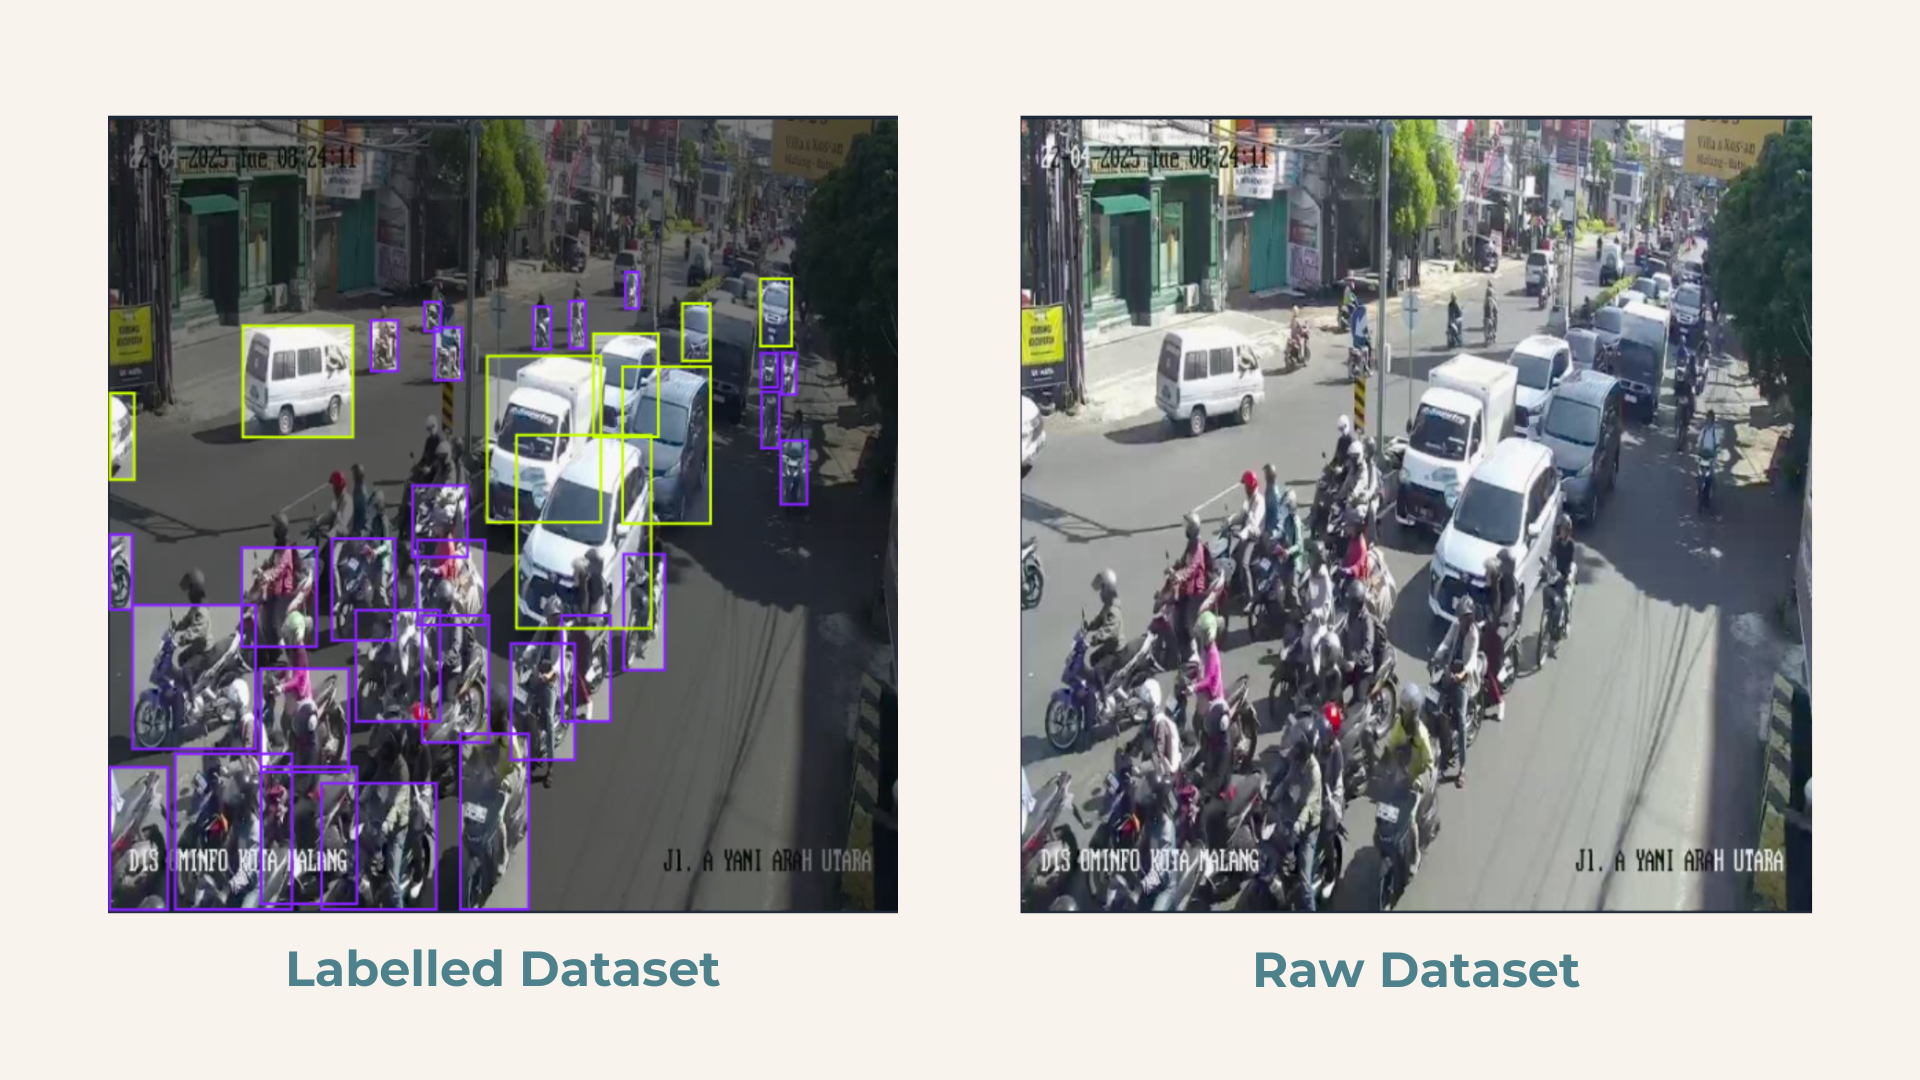
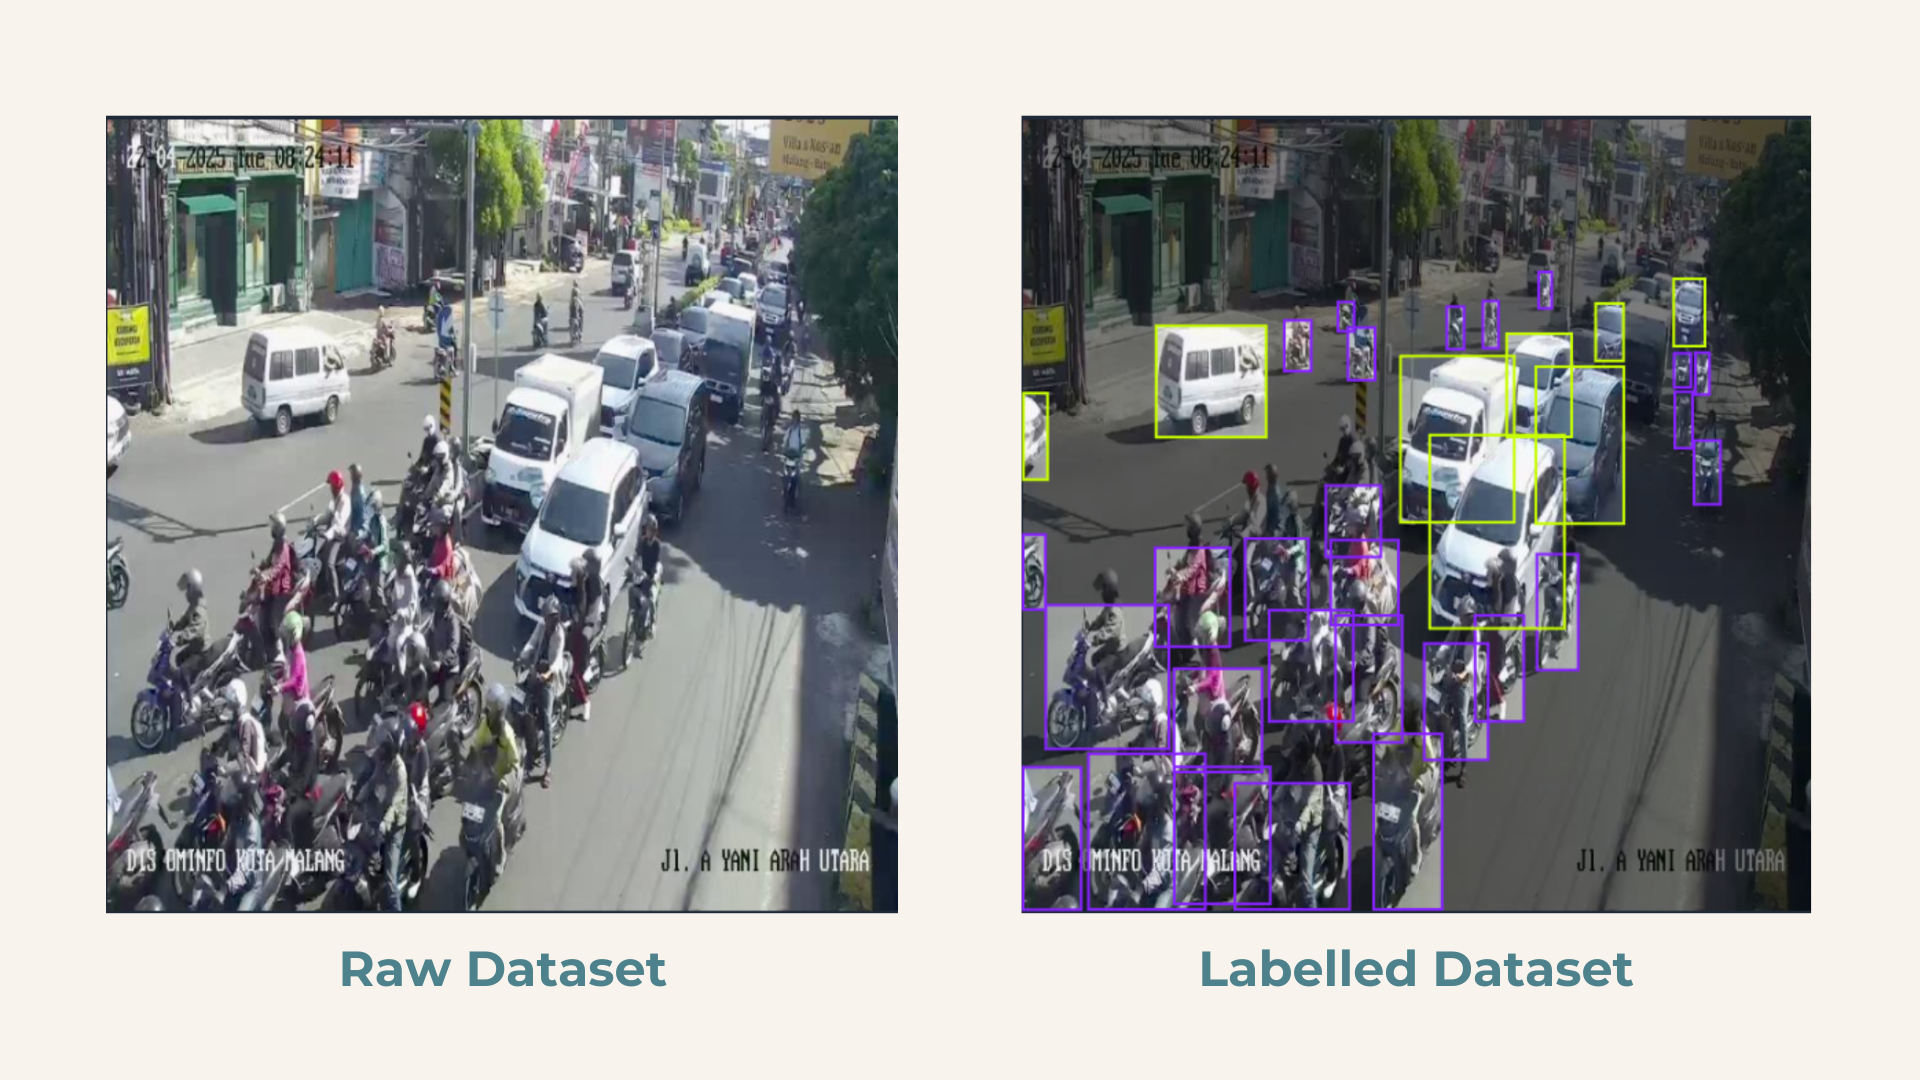
ux: match every page to the case-study column, fold the chat to a spine
Width — the previous attempt pointed pages at --page-wide (1120/1340px),
but the case study actually reads in --case-column (gutter + gap + measure,
~800/935px), so other pages ended up wider than the page they were meant
to match. Page now wraps children in that same column, and Home's hardcoded
860px band becomes calc(var(--case-column) + 5.5rem). The panel clamp's
magic 948px is derived from the token instead of restating Home's width,
so the two can no longer drift. Drops the now-unused `wide` prop.

Collapsed chat — the floating pill was the design's only raised surface
(--shadow-pill, now deleted) and it broke the drawer metaphor: the panel
slid out as a drawer and returned as a bubble in the opposite corner. It
is now a 48px spine that stays in the flex row, collapsing via the same
flex-basis + custom-property trick as .shell-panel. Centred composition,
the panel header's green dot so it reads as that panel folded, a green
left accent on hover (legible from the page side, not just under the
cursor), and a chevron that nudges toward where the panel reappears. Hit
target goes from a ~40px bubble to the full column height.

Dead links — a followup chip pointing at a case study hidden by
NEXT_PUBLIC_LAUNCH_MODE rendered as a chip to a 404. Guarded once in
Followups, where authored answers and LLM output both route through.
LAUNCH_WIP was duplicated in projects.ts and case-studies.ts and had
already started drifting; it is now one export.
[…]

diff --git a/app/globals.css b/app/globals.css
@@ -90,11 +90,6 @@
   --radius-xl: 10px; /* input bars, controls panel */
   --radius-pill: 100px;
 
-  /* The one raised surface in the design. Everything else sits flat on the
-     paper; the collapsed-chat pill floats over the page, so it needs to read as
-     above it rather than printed on it. */
-  --shadow-pill: 0 2px 6px rgb(23 22 15 / 0.09), 0 8px 24px rgb(23 22 15 / 0.11);
-
   /* README §Motion's curve, as a token — the shell, the drawer and the page
      reflow all have to move on the same one or the collapse reads as two
      animations that happen to overlap. */
@@ -199,23 +194,25 @@ h3 {
 }
 
 .shell-body[data-mode="full"] .shell-panel {
-  /* 948px = Home's 860px band + its two 44px gutters. */
-  --panel-w: clamp(360px, 100vw - 948px, 704px);
+  /* Home's band is the same reading column as every other page
+     (--case-column) plus its own 44px padding; add the two 44px outer gutters
+     and that is the width the page must keep before the panel may take any. */
+  --panel-w: clamp(360px, 100vw - (var(--case-column) + 11rem), 704px);
 }
 
 /* ── Collapsing ───────────────────────────────────────────────────────────────
    Three states on .shell-body, set in components/Shell.tsx:
 
      open     the visitor opened it
-     closed   the visitor closed it — the pill is the way back in
-     none     this route has no chat at all; no panel, and no pill either
+     closed   the visitor closed it — the spine is the way back in
+     none     this route has no chat at all; no panel, and no spine either
      auto     nobody has said — the media query below decides
 
    `auto` is why the default costs nothing at hydration: no effect measures the
    viewport, so nothing flashes on the narrow screens the default exists for.
    1400px is the width below which the panel starts taking room the page wants.
 
-   The panel and the pill are both in the DOM; exactly one is ever visible.
+   The panel and the spine are both in the DOM; exactly one is ever visible.
 
    It closes as a drawer rather than by `display: none`, which cannot animate:
    the panel keeps its full width and slides out by exactly that width, while a
@@ -238,13 +235,12 @@ h3 {
   transition-delay: 0s;
 }
 
-.shell-body[data-panel="open"] .shell-pill,
-.shell-body[data-panel="none"] .shell-pill {
+.shell-body[data-panel="open"] .shell-spine,
+.shell-body[data-panel="none"] .shell-spine {
+  --spine-w: 0px;
   opacity: 0;
-  translate: 0 14px;
   visibility: hidden;
   transition-delay: 0s;
-  transition-duration: 0.18s;
 }
 
 @media (max-width: 1399px) {
@@ -257,21 +253,29 @@ h3 {
   }
 }
 @media (min-width: 1400px) {
-  .shell-body[data-panel="auto"] .shell-pill {
+  .shell-body[data-panel="auto"] .shell-spine {
+    --spine-w: 0px;
     opacity: 0;
-    translate: 0 14px;
     visibility: hidden;
     transition-delay: 0s;
-    transition-duration: 0.18s;
   }
 }
 
-/* Arrives after the panel is out of the way, leaves at once. */
-.shell-pill {
+/* The collapsed panel is a folded spine, not a floating button. It is a flex
+   item in the same row as the panel, so the page never has a layer hovering
+   over it and the width it gives back is continuous: 46px, not 0.
+
+   Same `flex-basis` + custom-property trick as .shell-panel above — the
+   substituted length is what flex-basis transitions between.
+
+   Arrives after the drawer is out of the way, leaves at once. */
+.shell-spine {
+  --spine-w: 48px;
+  flex: 0 0 var(--spine-w);
   transition:
-    opacity 0.24s ease-out 0.2s,
-    translate 0.34s var(--ease-shell) 0.2s,
-    visibility 0.54s;
+    flex-basis 0.38s var(--ease-shell),
+    opacity 0.24s ease-out 0.16s,
+    visibility 0.46s;
 }
 
 /* ── What the page does with the width back ───────────────────────────────────
@@ -339,12 +343,12 @@ h3 {
   --case-column: calc(var(--case-gutter) + 3.5rem + var(--case-measure));
 }
 
-/* Below Tailwind's `lg` the panel is replaced by the mobile sheet, and the pill
+/* Below Tailwind's `lg` the panel is replaced by the mobile sheet, and the spine
    would be a second door to the same room. Keeping this in step with `lg:`
    means components can use plain `lg:` prefixes. */
 @media (max-width: 1023px) {
   .shell-panel,
-  .shell-pill {
+  .shell-spine {
     display: none;
   }
 }

diff --git a/components/chat/ChatPanel.tsx b/components/chat/ChatPanel.tsx
@@ -15,9 +15,9 @@ import { useChat } from "./context";
  *   /projects/<slug>    → rail mode, 340px, scoped to that project
  *
  * Everywhere else the column was a set of chips that navigated you away — the
- * page gets the width back instead, and the top bar keeps a way in.
+ * page gets the width back instead.
  *
- * Both the panel and its collapsed stand-in are always rendered; which one you
+ * Both the panel and its folded spine are always rendered; which one you
  * see is decided in CSS from `.shell-body[data-panel]` plus a media query. That
  * is what lets the default ("open above 1400px, out of the way below") cost
  * nothing at hydration — see the note in components/Shell.tsx.
@@ -89,19 +89,52 @@ export default function ChatPanel({
         <ChatInput scope={scope} />
       </aside>
 
-      {/* The collapsed state. Deliberately the same gesture as the mobile
-          sheet's bar rather than a second pattern — one "there is a chat here"
-          affordance, floated instead of pinned because desktop has the room. */}
+      {/* The collapsed state: the panel folded to a spine, still in the flex
+          row. Deliberately NOT a floating button — this design has no raised
+          layer, and a bubble in the opposite corner broke the drawer metaphor
+          the whole collapse is built on. The whole strip is the target.
+
+          The green dot is the same one the open panel's header carries, which
+          is what makes the spine read as that panel folded rather than as a
+          separate control that happens to live on the edge. */}
       <button
         type="button"
         onClick={() => onToggle(true)}
-        className="shell-pill fixed right-6 bottom-6 z-40 flex items-center gap-2.5 rounded-pill bg-green py-2.5 pr-[18px] pl-4 text-surface shadow-pill transition-colors hover:bg-green-dark max-lg:hidden"
+        aria-label={scope ? `Open the chat about ${scope.name}` : "Open the chat"}
+        className="shell-spine group relative flex flex-col items-center justify-center gap-[18px] overflow-hidden border-l border-divider bg-surface text-ink-label transition-colors hover:bg-green-tint hover:text-green max-lg:hidden"
       >
-        <span aria-hidden className="block size-[7px] rounded-full bg-surface/70" />
-        {/* A fixed label, not the project's name — "Traffic congestion
-            detection" would make the pill a different width on every case
-            study, and the header already says which project this is. */}
-        <span className="t-ui">{scope ? "Ask about this project" : "Ask me anything"}</span>
+        {/* The hover state has to be visible from the page side, not just under
+            the cursor — this is the edge the reader's eye is already near. */}
+        <span
+          aria-hidden
+          className="absolute inset-y-0 left-0 w-[2px] bg-transparent transition-colors group-hover:bg-green"
+        />
+
+        <svg
+          width="15"
+          height="15"
+          viewBox="0 0 15 15"
+          fill="none"
+          aria-hidden
+          className="flex-none transition-transform duration-200 group-hover:-translate-x-[2px]"
+        >
+          <path
+            d="M9.5 2.5L5 7.5L9.5 12.5"
+            stroke="currentColor"
+            strokeWidth="1.6"
+            strokeLinecap="round"
+            strokeLinejoin="round"
+          />
+        </svg>
+
+        <span aria-hidden className="block size-[7px] flex-none rounded-full bg-green" />
+
+        {/* Reads bottom-to-top, the convention for a right-hand edge. The
+            width is fixed now, so the label can name the scope without the
+            strip changing size between routes. */}
+        <span className="font-mono text-[9.5px] font-bold tracking-[0.2em] whitespace-nowrap uppercase [writing-mode:vertical-rl] rotate-180">
+          {scope ? "Ask about this project" : "Ask me anything"}
+        </span>
       </button>
     </>
   );

diff --git a/components/ui/Page.tsx b/components/ui/Page.tsx
@@ -1,31 +1,30 @@
-/** Page shell. Two widths in the design: 860px on Home, 1000px everywhere
- *  else. `animate-rise` is the shared page-transition fade from README §Motion.
+/** Page shell. `animate-rise` is the shared page-transition fade from
+ *  README §Motion.
  *
- *  Always centred. Left-pinned is what turned a collapsed chat panel into a
- *  block of dead margin on one side only — the amount of white space was fine,
- *  its position wasn't.
+ *  Every page is held to `--case-column` — the same contents-gutter + gap +
+ *  measure column the case study reads in. That token is derived from
+ *  `--case-gutter` and `--case-measure`, both registered with `@property` and
+ *  transitioned in app/globals.css, so the column widens and narrows on the
+ *  same curve as the chat drawer instead of snapping mid-slide.
  *
- *  `wide` opts into `--page-wide`, which grows to 1180px when no panel is
- *  competing for the width (app/globals.css). Only the case study takes it: it
- *  has a gutter and diagrams that can spend the room. The other pages are grids
- *  designed at 1000 and would only gain slack.
+ *  The outer div keeps `--page-wide` as the padding box; the inner div is the
+ *  reading column. The case study nests its own identical max-width, which is
+ *  now a no-op rather than a second source of truth.
  *
  *  The horizontal padding steps down below `xl`: at 1024–1279 the full 56px
  *  gutters were costing the content column more than they bought it. */
 export default function Page({
   children,
   className = "",
-  wide = false,
 }: {
   children: React.ReactNode;
   className?: string;
-  wide?: boolean;
 }) {
   return (
     <div
       className={`animate-rise mx-auto max-w-[var(--page-wide)] px-5 pt-8 pb-24 lg:px-9 lg:pt-12 lg:pb-20 xl:px-14 ${className}`}
     >
-      {children}
+      <div className="mx-auto w-full max-w-[var(--case-column)]">{children}</div>
     </div>
   );
 }

diff --git a/app/page.tsx b/app/page.tsx
@@ -37,7 +37,7 @@ export default function HomePage() {
     .filter((p): p is NonNullable<typeof p> => Boolean(p));
 
   return (
-    <div className="animate-rise mx-auto max-w-[860px] pb-20">
+    <div className="animate-rise mx-auto max-w-[calc(var(--case-column)+5.5rem)] pb-20">
       {/* ── Band 1: byline, headline, actions, proof ─────────────────────── */}
       <div className={`${PAD} pt-8 lg:pt-11`}>
         <div className="mb-5 flex items-center gap-3">
@@ -85,7 +85,7 @@ export default function HomePage() {
 
       {/* ── Band 2: the route rail, with the figure standing in it ───────── */}
       <div
-        className={`mt-[26px] grid items-stretch gap-[30px] border-t border-divider bg-well ${PAD} pt-[26px] lg:grid-cols-[minmax(0,460px)_1fr]`}
+        className={`mt-[26px] grid items-stretch gap-[30px] border-t border-divider bg-well ${PAD} pt-[26px] lg:grid-cols-[minmax(0,1fr)_300px] min-[1560px]:grid-cols-[minmax(0,1fr)_400px]`}
       >
         <div className="relative z-[2] flex flex-col gap-[22px] pb-[30px]">
           <div>
@@ -110,7 +110,7 @@ export default function HomePage() {
                 {routeRows.map((row) => (
                   <li
                     key={row.org}
-                    className="grid grid-cols-[8px_92px_1fr] items-baseline gap-x-4 border-b border-divider py-[17px] last:border-b-0"
+                    className="grid grid-cols-[8px_minmax(80px,18%)_1fr] items-baseline gap-x-3 border-b border-divider py-[17px] last:border-b-0"
                   >
                     <span
                       aria-hidden

diff --git a/components/blocks/BlockList.tsx b/components/blocks/BlockList.tsx
@@ -5,6 +5,7 @@ import Link from "next/link";
 import type { Block } from "@/lib/blocks";
 import { inline } from "@/lib/inline";
 import { useChat } from "@/components/chat/context";
+import { caseStudySlugs } from "@/content/projects";
 import ImageSlot from "@/components/ui/ImageSlot";
 import Mermaid from "./Mermaid";
 import CodeBlock from "./CodeBlock";
@@ -357,6 +358,12 @@ function Followups({ block }: { block: Extract<Block, { type: "followups" }> }) 
       </span>
 
       {block.items.map((item, i) => {
+        // A followup may point at a case study that is hidden in production
+        // (NEXT_PUBLIC_LAUNCH_MODE). Rendering it would be a chip to a 404 —
+        // authored answers and LLM output both route through here.
+        const dead = item.href?.match(/^\/projects\/([^?#]+)$/);
+        if (dead && !caseStudySlugs.includes(dead[1])) return null;
+
         const chip = item.cta
           ? "bg-green text-surface px-[13px] py-[7px] hover:bg-green-dark"
           : item.primary

diff --git a/content/case-studies.ts b/content/case-studies.ts
@@ -1,15 +1,7 @@
 import { parseBlocks, type Block, type BlockInput } from "../lib/blocks.ts";
 import type { RailContext } from "../lib/rail.ts";
 import type { TopicId } from "./answers.ts";
-import { projectBySlug } from "./projects.ts";
-
-// Mirror of the WIP set in projects.ts — filters the case study array in
-// production so routes, the next-study cycle and hasChatPanel all stay in sync.
-const LAUNCH_WIP = new Set(
-  process.env.NEXT_PUBLIC_LAUNCH_MODE === "1"
-    ? ["manna", "talkative", "gerakin"]
-    : [],
-);
+import { projectBySlug, LAUNCH_WIP } from "./projects.ts";
 
 // The four full case studies. One template, fixed section order:
 //

diff --git a/components/Shell.tsx b/components/Shell.tsx
@@ -39,7 +39,7 @@ export default function Shell({
    * overrides them — resizing included.
    *
    * `none` is a separate state from `closed` on purpose: both hide the panel and
-   * widen the page, but `closed` leaves the pill as the way back in and `none`
+   * widen the page, but `closed` leaves the spine as the way back in and `none`
    * does not, because on those routes there is deliberately no chat to reopen.
    * Keeping them distinct is what lets ChatPanel stay mounted everywhere, so the
    * panel slides away on navigation instead of blinking out of existence.

diff --git a/app/projects/[slug]/page.tsx b/app/projects/[slug]/page.tsx
@@ -28,7 +28,7 @@ export default async function CaseStudyPage({ params }: { params: Promise<{ slug
   const next = nextCaseStudy(slug);
 
   return (
-    <Page wide className="!pt-10">
+    <Page className="!pt-10">
       {/* Everything on the page shares the contents-plus-body column, so the
           headline and the section list start on the same line however wide the
           measure is. */}

diff --git a/content/projects.ts b/content/projects.ts
@@ -1,7 +1,7 @@
 // Projects that have a case study but aren't ready to publish yet.
 // Set NEXT_PUBLIC_LAUNCH_MODE=1 in the production environment to hide them;
 // leave it unset locally so dev sees everything.
-const LAUNCH_WIP = new Set(
+export const LAUNCH_WIP = new Set(
   process.env.NEXT_PUBLIC_LAUNCH_MODE === "1"
     ? ["manna", "talkative", "gerakin"]
     : [],
